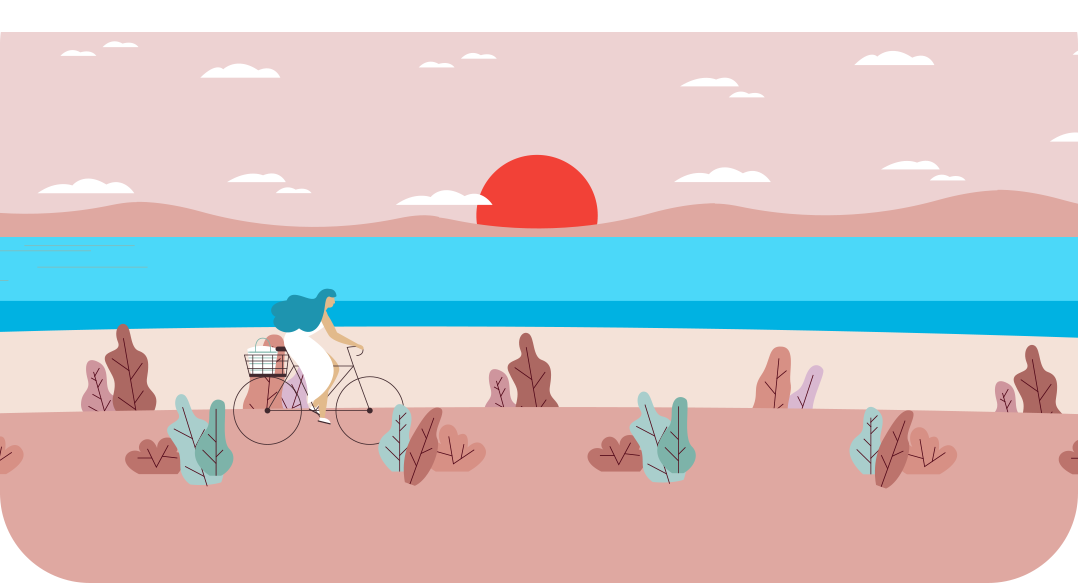
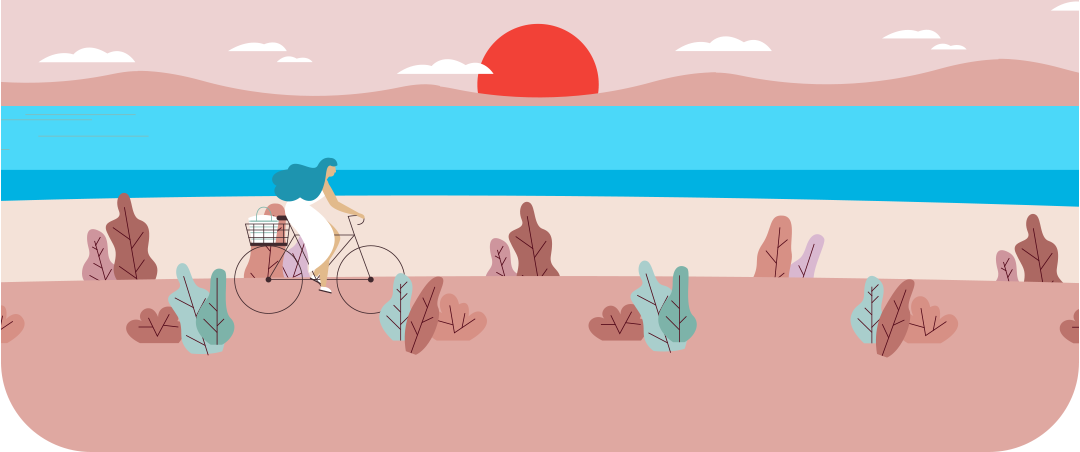
home screen

diff --git a/lib/screen/home_screen.dart b/lib/screen/home_screen.dart
@@ -1,30 +1,145 @@
 import 'package:didar_app/Constants/them_conf.dart';
 import 'package:didar_app/screen/_test_screen.dart';
 import 'package:didar_app/services/auth/authenticatService.dart';
+import 'package:flutter/cupertino.dart';
 import 'package:flutter/material.dart';
 import 'package:provider/provider.dart';
 
 class HomeScreen extends StatelessWidget {
   @override
   Widget build(BuildContext context) {
-    final authService = Provider.of<AuthenticationService>(context);
-    return Scaffold(
-      appBar: AppBar(
-        title: Image.asset(
-          AssetImages.logo,
-          height: 45,
+    // final authService = Provider.of<AuthenticationService>(context);
+    double widthOfScreen = MediaQuery.of(context).size.width;
+    double heightOfScreen = MediaQuery.of(context).size.height;
+    print(widthOfScreen);
+    return Container(
+      child: Center(
+        child: Column(
+          mainAxisAlignment: MainAxisAlignment.spaceBetween,
+          crossAxisAlignment: CrossAxisAlignment.center,
+          children: [
+            Column(
+              children: [
+                Container(
+                  width: widthOfScreen,
+                  child: Stack(
+                    children: [
+                      // for majoring the height of pic
+                      Opacity(
+                        opacity: 0,
+                        child: Image.asset(
+                          AssetImages.homeHeader,
+                        ),
+                      ),
+                      Positioned(
+                        width: widthOfScreen,
+                        child: Image.asset(
+                          AssetImages.homeHeader,
+                        ),
+                      ),
+                      Positioned(
+                          top: 46 * ((widthOfScreen) / 411),
+                          child: Container(
+                              padding: EdgeInsets.symmetric(horizontal: 15),
+                              child: Text(
+                                'جمعه 1 مرداد ماه 1400 | 2021 Friday 21 July',
+                                style: TextStyle(color: Colors.white),
+                              )))
+                    ],
+                  ),
+                ),
+              ],
+            ),
+            Column(
+              children: [
+                Text(
+                  'جلسات قابل ارائه خود را ثبت کنید',
+                  style: TextStyle(
+                      color: ColorPallet.textColor,
+                      fontWeight: FontWeight.bold),
+                ),
+                Image.asset(
+                  AssetImages.sessionPlaceholder,
+                  width: widthOfScreen - 150,
+                ),
+                ElevatedButton(
+                  onPressed: () {},
+                  child: Text('ثبت جلسه'),
+                  style: ButtonStyle(backgroundColor: MaterialStateProperty.resolveWith((states) => ColorPallet.red),
+                    padding: MaterialStateProperty.resolveWith(
+                        (states) => EdgeInsets.symmetric(horizontal: 40)),
+                    shape: MaterialStateProperty.all<RoundedRectangleBorder>(
+                      RoundedRectangleBorder(
+                        borderRadius: BorderRadius.circular(50.0),
+                      ),
+                    ),
+                  ),
+                )
+              ],
+            ),
+            Container(
+              margin: EdgeInsets.symmetric(horizontal: 15, vertical: 8),
+              padding: EdgeInsets.symmetric(vertical: 8, horizontal: 10),
+              decoration: BoxDecoration(
+                  color: Colors.white,
+                  borderRadius: BorderRadius.circular(38),
+                  border: Border.all(color: ColorPallet.blue)),
+              child: Row(
+                mainAxisAlignment: MainAxisAlignment.spaceBetween,
+                crossAxisAlignment: CrossAxisAlignment.start,
+                children: [
+                  quickAccess(
+                      title: 'مشخصات جلسات',
+                      icon: Image.asset(AssetImages.iconSessionSetting)),
+                  quickAccess(
+                      title: 'تقویم کاری',
+                      icon: Image.asset(AssetImages.iconWorkCalendar)),
+                  quickAccess(
+                      title: 'ثبت جلسات',
+                      icon: Image.asset(AssetImages.iconAddSession)),
+                  quickAccess(
+                      title: 'بازاریابی',
+                      icon: Image.asset(AssetImages.iconRevenue)),
+                  quickAccess(
+                      title: 'آموزش مالی',
+                      icon: Image.asset(AssetImages.iconFinancialStuff)),
+                ],
+              ),
+            )
+          ],
         ),
-        centerTitle: true,
-        leading: Icon(Icons.email),
-        actions: [
-          IconButton(
-              onPressed: () async {
-                await authService.signOut();
-              },
-              icon: Icon(Icons.exit_to_app))
-        ],
       ),
-      body: TestScreen(),
     );
   }
 }
+
+// +++++++++++++++++++++++++++++++++++++++++++++++++++++++++++++++++++++++++++++
+//                      Quick Access Item
+// +++++++++++++++++++++++++++++++++++++++++++++++++++++++++++++++++++++++++++++
+Expanded quickAccess({
+  required String title,
+  required Widget icon,
+}) {
+  return Expanded(
+    child: GestureDetector(
+      onTap: () {},
+      child: Column(
+        children: [
+          Container(width: 30, child: icon),
+          Padding(
+            padding: const EdgeInsets.only(top: 3),
+            child: Text(
+              title,
+              softWrap: true,
+              textAlign: TextAlign.center,
+              style: TextStyle(
+                fontSize: 8,
+              ),
+            ),
+          )
+        ],
+      ),
+    ),
+  );
+}
+// _____________________________________________________________________________

diff --git a/lib/screen/_bottom_nav_wrapper.dart b/lib/screen/_bottom_nav_wrapper.dart
@@ -1,6 +1,9 @@
+import 'package:cloud_firestore/cloud_firestore.dart';
 import 'package:didar_app/Constants/them_conf.dart';
 import 'package:didar_app/screen/calendar_screen.dart';
+import 'package:didar_app/screen/home_screen.dart';
 import 'package:didar_app/screen/profile_screen.dart';
+import 'package:didar_app/screen/setting_screen.dart';
 import 'package:didar_app/services/auth/authenticatService.dart';
 import 'package:flutter/cupertino.dart';
 import 'package:flutter/material.dart';
@@ -16,22 +19,14 @@ class BottomNavigationWrapper extends StatefulWidget {
 }
 
 class _BottomNavigationWrapperState extends State<BottomNavigationWrapper> {
-  int _selectedIndex = 0;
+  int _selectedIndex = 1;
 
   // ANCHOR : Bottom navigation item widgetOptions
-  static List<Widget> _widgetOptions = <Widget>[
+  final List<Widget> _widgetOptions = <Widget>[
     ProfileScreen(),
-    Center(
-      child: Text(
-        'home screen',
-      ),
-    ),
+    HomeScreen(),
     CalendarScreen(),
-    Center(
-      child: Text(
-        'settings',
-      ),
-    )
+    SettingScreen(),
   ];
 
   void _onItemTapped(int index) {
@@ -66,15 +61,21 @@ class _BottomNavigationWrapperState extends State<BottomNavigationWrapper> {
                     AssetImages.emailIcon,
                     height: 30,
                   )),
-                  Positioned(bottom: 5,right: 20,
-                    child: Container(width: 20,height: 20,
-                    decoration: BoxDecoration(
-                      color: ColorPallet.red,
-
-                      borderRadius: BorderRadiusDirectional.circular(50)
-                    ),
+                  Positioned(
+                    bottom: 5,
+                    right: 20,
+                    child: Container(
+                      width: 20,
+                      height: 20,
+                      decoration: BoxDecoration(
+                          color: ColorPallet.red,
+                          borderRadius: BorderRadiusDirectional.circular(50)),
                       child: Center(
-                        child: Text('2',style: TextStyle(fontSize: 11 ,fontWeight: FontWeight.bold),),
+                        child: Text(
+                          '2',
+                          style: TextStyle(
+                              fontSize: 11, fontWeight: FontWeight.bold),
+                        ),
                       ),
                     ),
                   ),
@@ -82,7 +83,17 @@ class _BottomNavigationWrapperState extends State<BottomNavigationWrapper> {
           )
         ],
       ),
-      body: _widgetOptions[_selectedIndex],
+      body: Stack(
+        children: [
+          Center(
+              child: Image.asset(
+            AssetImages.patternAuthBg,
+            fit: BoxFit.cover,
+          )),
+          // NOTE : this is a body Injection screen Widget
+          _widgetOptions[_selectedIndex],
+        ],
+      ),
       bottomNavigationBar: SnakeNavigationBar.color(
         snakeShape: SnakeShape.rectangle,
         currentIndex: _selectedIndex,

diff --git a/lib/Constants/them_conf.dart b/lib/Constants/them_conf.dart
@@ -37,8 +37,24 @@ class AssetImages {
   static const String emailIcon = "assets/images/email.png";
 
   /// Calendar png that used as placeholder when sessions list is empty
-  static const String sessionPlaceholder = "assets/images/empty-session-placeholder.png";
+  static const String sessionPlaceholder =
+      "assets/images/empty-session-placeholder.png";
 
   /// Nice PNG header for Home page
   static const String homeHeader = "assets/images/home-header.png";
+
+  /// Custom (Didar) payment card Icon
+  static const String iconSessionSetting = "assets/images/d-icon-session-setting.png";
+
+  /// Custom (Didar) Work Calendar Icon
+  static const String iconWorkCalendar = "assets/images/d-icon-calendar.png";
+
+  /// Custom (Didar) session Add Icon
+  static const String iconAddSession = "assets/images/d-icon-session.png";
+
+  /// Custom (Didar) Revenue Icon
+  static const String iconRevenue = "assets/images/d-icon-revenue.png";
+
+  /// Custom (Didar) Pay Card Icon
+  static const String iconFinancialStuff = "assets/images/d-icon-pay.png";
 }

diff --git a/lib/screen/setting_screen.dart b/lib/screen/setting_screen.dart
@@ -1,0 +1,12 @@
+import 'package:flutter/material.dart';
+
+class SettingScreen extends StatelessWidget {
+  const SettingScreen({Key? key}) : super(key: key);
+
+  @override
+  Widget build(BuildContext context) {
+    return Container(
+      child: Center(child: Text('setting')),
+    );
+  }
+}
